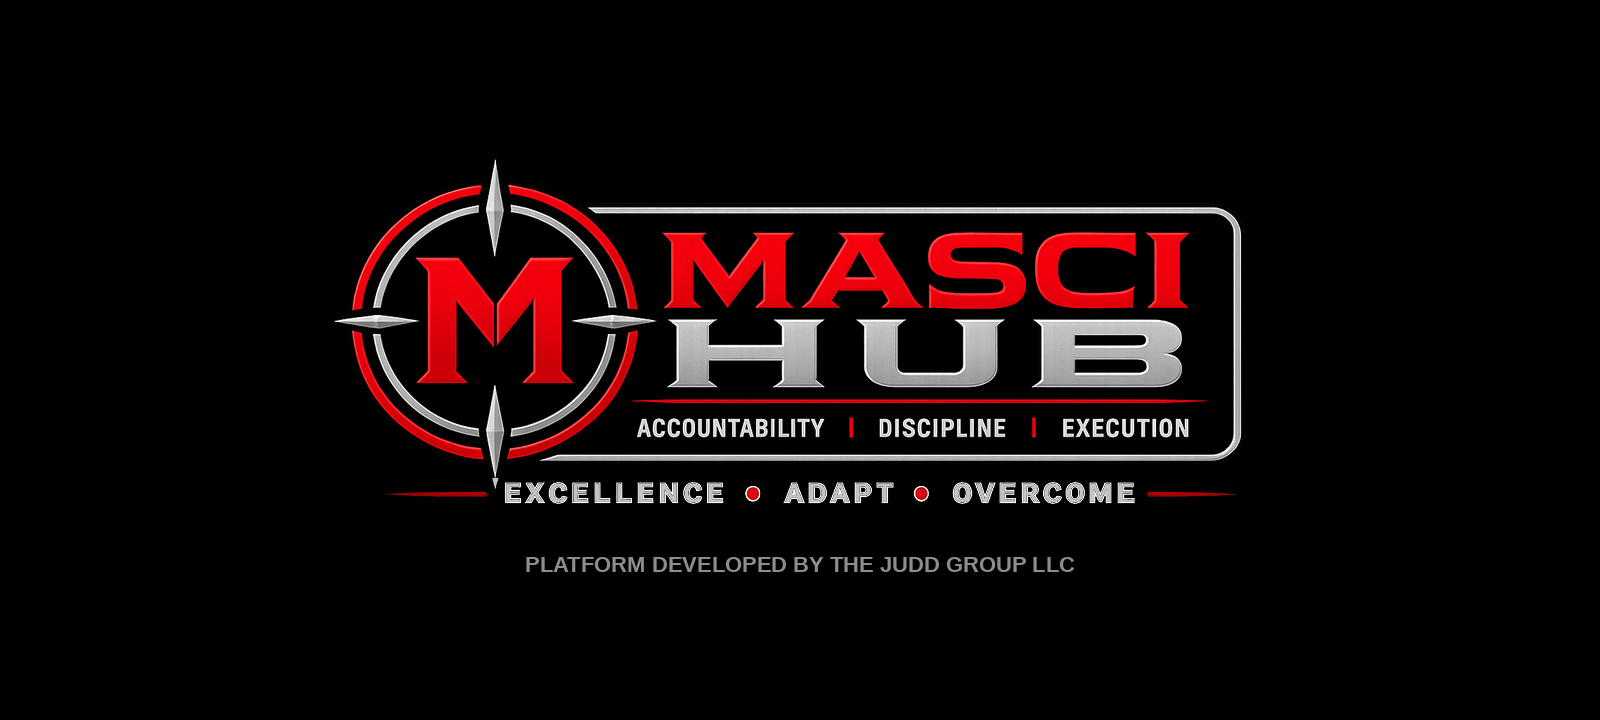
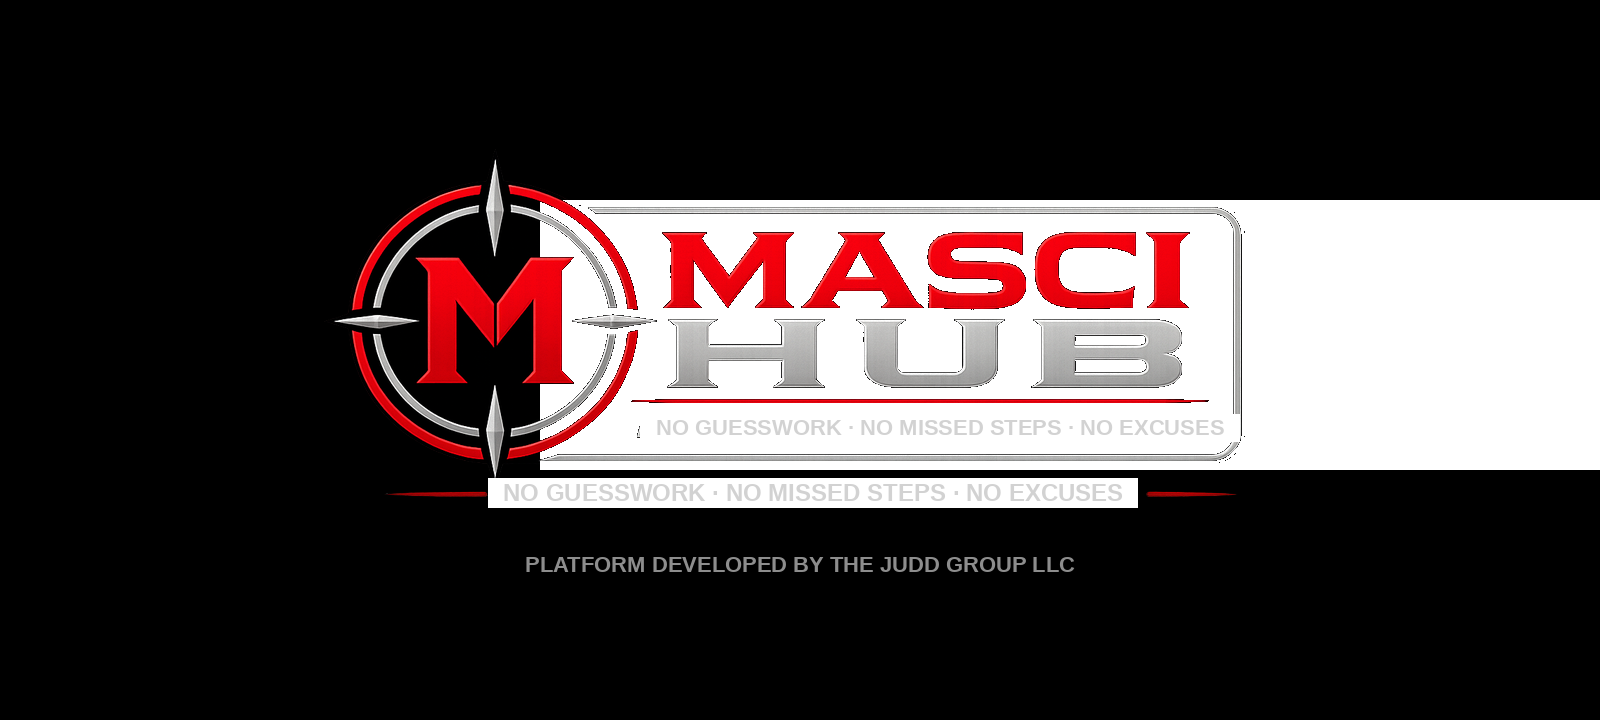
auto-commit for efc2677d-4448-4960-91ba-554e970675a8

Changed region(s): [[0.2812, 0.275, 1.0, 0.7028]]

diff --git a/frontend/src/pages/ThankYou.jsx b/frontend/src/pages/ThankYou.jsx
@@ -92,12 +92,12 @@ export default function ThankYou() {
             </Button>
           </div>
 
-          <div className="mt-10 pt-6 border-t-2 border-slate-100 font-mono text-[10px] uppercase tracking-[0.25em] text-red-700 font-bold flex items-center justify-center gap-2 flex-wrap">
-            <span>{t("Accountability")}</span>
+          <div className="mt-10 pt-6 border-t-2 border-slate-100 font-mono text-[10px] uppercase tracking-[0.25em] text-red-700 font-bold flex items-center justify-center gap-2 flex-wrap" hidden>
+            <span>{t("No Guesswork.")}</span>
             <span className="w-1 h-1 rounded-full bg-red-700" />
-            <span>{t("Adapt")}</span>
+            <span>{t("No Missed Steps.")}</span>
             <span className="w-1 h-1 rounded-full bg-red-700" />
-            <span>{t("Overcome")}</span>
+            <span>{t("No Excuses.")}</span>
           </div>
         </div>
       </main>

diff --git a/frontend/src/pages/Hub.jsx b/frontend/src/pages/Hub.jsx
@@ -287,13 +287,6 @@ export default function Hub() {
           <p className="text-slate-600 text-base sm:text-lg mt-3 max-w-2xl">
             {t("Daily reports, safety enforcement, equipment tracking, training, and complete documentation — automatically captured, routed, and stored in one system.")}
           </p>
-          <div className="mt-4 flex items-center gap-2 font-mono text-[11px] uppercase tracking-[0.25em] flex-wrap">
-            <span className="text-red-700 font-bold">{t("No Guesswork.")}</span>
-            <span className="w-1 h-1 rounded-full bg-red-700" />
-            <span className="text-red-700 font-bold">{t("No Missed Steps.")}</span>
-            <span className="w-1 h-1 rounded-full bg-red-700" />
-            <span className="text-red-700 font-bold">{t("No Excuses.")}</span>
-          </div>
         </div>
 
         <div className="grid grid-cols-1 md:grid-cols-2 gap-5 sm:gap-6 mb-10">

diff --git a/frontend/src/pages/Dashboard.jsx b/frontend/src/pages/Dashboard.jsx
@@ -112,7 +112,7 @@ export default function Dashboard() {
             Document compliance, capture findings, and produce print-ready reports
             from any device — phone, tablet, or desktop.
           </p>
-          <div className="mt-4 flex items-center gap-2 font-mono text-[11px] uppercase tracking-[0.25em] flex-wrap">
+          <div className="mt-4 flex items-center gap-2 font-mono text-[11px] uppercase tracking-[0.25em] flex-wrap" hidden>
             <span className="text-red-700 font-bold">No Guesswork.</span>
             <span className="w-1 h-1 rounded-full bg-red-700" />
             <span className="text-red-700 font-bold">No Missed Steps.</span>

diff --git a/frontend/public/index.html b/frontend/public/index.html
@@ -4,7 +4,7 @@
         <meta charset="utf-8" />
         <meta name="viewport" content="width=device-width, initial-scale=1" />
         <meta name="theme-color" content="#0f172a" />
-        <meta name="description" content="MASCI Hub — Safety, Field, Projects, Admin. Accountability · Adapt · Overcome." />
+        <meta name="description" content="MASCI Hub — Safety, Field, Projects, Admin. No Guesswork. No Missed Steps. No Excuses." />
         <link rel="icon" href="/favicon.ico" sizes="any" />
         <link rel="icon" type="image/png" sizes="16x16" href="/favicon-16.png" />
         <link rel="icon" type="image/png" sizes="32x32" href="/favicon-32.png" />

diff --git a/frontend/src/components/FormPasswordGate.jsx b/frontend/src/components/FormPasswordGate.jsx
@@ -105,7 +105,7 @@ export function FormPasswordGate({
             <Unlock className="w-4 h-4 mr-2" /> Unlock Form
           </Button>
 
-          <div className="mt-8 pt-5 border-t-2 border-slate-100 font-mono text-[10px] uppercase tracking-[0.25em] text-red-700 font-bold flex items-center justify-center gap-2 flex-wrap">
+          <div className="mt-8 pt-5 border-t-2 border-slate-100 font-mono text-[10px] uppercase tracking-[0.25em] text-red-700 font-bold flex items-center justify-center gap-2 flex-wrap" hidden>
             <span>No Guesswork.</span>
             <span className="w-1 h-1 rounded-full bg-red-700" />
             <span>No Missed Steps.</span>

diff --git a/frontend/src/pages/ViewInspection.jsx b/frontend/src/pages/ViewInspection.jsx
@@ -221,7 +221,7 @@ export default function ViewInspection() {
                 <SubmitLangBadge lang={data.submit_language} />
               </div>
             )}
-            <div className="mt-2 flex items-center gap-2 font-mono text-[10px] uppercase tracking-[0.25em] text-red-700 font-bold flex-wrap">
+            <div className="mt-2 flex items-center gap-2 font-mono text-[10px] uppercase tracking-[0.25em] text-red-700 font-bold flex-wrap" hidden>
               <span>No Guesswork.</span>
               <span className="w-1 h-1 rounded-full bg-red-700" />
               <span>No Missed Steps.</span>

diff --git a/frontend/src/pages/ViewMeeting.jsx b/frontend/src/pages/ViewMeeting.jsx
@@ -155,7 +155,7 @@ export default function ViewMeeting() {
                 <SubmitLangBadge lang={data.submit_language} />
               </div>
             )}
-            <div className="mt-2 flex items-center gap-2 font-mono text-[10px] uppercase tracking-[0.25em] text-red-700 font-bold flex-wrap">
+            <div className="mt-2 flex items-center gap-2 font-mono text-[10px] uppercase tracking-[0.25em] text-red-700 font-bold flex-wrap" hidden>
               <span>No Guesswork.</span>
               <span className="w-1 h-1 rounded-full bg-red-700" />
               <span>No Missed Steps.</span>

diff --git a/scripts/rewrite_logo_tagline.py b/scripts/rewrite_logo_tagline.py
@@ -1,0 +1,157 @@
+"""Logo tagline rewriter — v2.
+
+This rebuild produces a CLEAN, transparent-background MASCI lockup with
+the new tagline baked in. The previous rewrite left a solid black HUB
+rectangle that read as a "box behind the logo" on dark headers; this
+version converts that black background to fully transparent so the
+lockup floats naturally on any header color.
+
+Pipeline:
+  1. Start from the pristine artwork in
+     /app/frontend/public/_pre_tagline_rebrand_backup/.
+  2. Detect the HUB rectangle's solid-black fill and convert ONLY those
+     pixels to transparent. The M-shield artwork (which contains its own
+     black detailing) is preserved by limiting the detection to the
+     right-side rectangle bounds (x >= ~530).
+  3. Stamp the new tagline twice — once inside the HUB rectangle (where
+     "ACCOUNTABILITY · DISCIPLINE · EXECUTION" used to live), once below
+     the badge (where "EXCELLENCE · ADAPT · OVERCOME" used to live).
+  4. Save back to /app/frontend/public/.
+
+After this script runs the lockup is essentially:
+  • M-shield medallion (intact, original colors)
+  • Floating "MASCI" + "HUB" letters (intact, original red+gradient)
+  • New tagline rendered in clean silver type
+  • Everything else fully transparent — no boxy background
+"""
+from PIL import Image, ImageDraw, ImageFont
+import numpy as np
+
+INSIDE_BAND_Y = (414, 442)        # tagline band that lived inside the HUB rect
+INSIDE_BAND_X = (640, 1240)
+BELOW_BAND_Y = (478, 508)         # tagline band that lived below the badge
+BELOW_BAND_X = (488, 1138)
+
+# The HUB rectangle's solid-black fill spans roughly y=210-465 on the right
+# half of the canvas. Anything to the LEFT of this is the M-shield (which
+# has its own black detailing we must keep).
+RECT_X_MIN = 540
+RECT_Y_RANGE = (200, 470)
+
+FONT_PATH = "/usr/share/fonts/truetype/liberation/LiberationSans-Bold.ttf"
+NEW_TAGLINE = "NO GUESSWORK · NO MISSED STEPS · NO EXCUSES"
+TAGLINE_COLOR = (210, 210, 210, 255)
+
+VARIANTS = [
+    "/app/frontend/public/masci-full-lockup.png",
+    "/app/frontend/public/masci-full-lockup-onblack.png",
+    "/app/frontend/public/masci-full-lockup-onlight.png",
+]
+
+SOURCE_DIR = "/app/frontend/public/_pre_tagline_rebrand_backup"
+
+
+def _strip_hub_black(arr: np.ndarray) -> np.ndarray:
+    """Convert the HUB rectangle's solid-black background to transparent.
+
+    Targets pixels where R<15, G<15, B<15, A>=200, located in the
+    right-side rectangle area only. Pixels with even slight red or grey
+    tint (i.e. non-pure-black artwork) are preserved.
+    """
+    h, w, _ = arr.shape
+    y0, y1 = RECT_Y_RANGE
+    sub = arr[y0:y1, RECT_X_MIN:, :]
+    is_black = (
+        (sub[..., 0] < 15) & (sub[..., 1] < 15) & (sub[..., 2] < 15) & (sub[..., 3] >= 200)
+    )
+    sub[is_black] = (0, 0, 0, 0)
+    arr[y0:y1, RECT_X_MIN:, :] = sub
+    return arr
+
+
+def _clear_band(arr: np.ndarray, x_band, y_band) -> None:
+    """Wipe every pixel inside the given rectangle to fully transparent.
+
+    Used to remove the OLD gray tagline pixels before stamping the new
+    one. Once the HUB-rectangle's black background is gone, the old
+    silver tagline glyphs would otherwise still be visible.
+    """
+    x0, x1 = x_band
+    y0, y1 = y_band
+    arr[y0:y1, x0:x1, :] = (0, 0, 0, 0)
+
+
+def _fit_font(text: str, max_w: int, max_h: int) -> ImageFont.FreeTypeFont:
+    for size in range(max_h + 4, 8, -1):
+        font = ImageFont.truetype(FONT_PATH, size=size)
+        bbox = font.getbbox(text)
+        if (bbox[2] - bbox[0]) <= max_w and (bbox[3] - bbox[1]) <= max_h:
+            return font
+    return ImageFont.truetype(FONT_PATH, size=12)
+
+
+def _stamp(draw: ImageDraw.ImageDraw, x_band, y_band, text, color):
+    x0, x1 = x_band
+    y0, y1 = y_band
+    band_w = x1 - x0
+    band_h = y1 - y0
+    font = _fit_font(text, band_w - 12, band_h - 4)
+    bbox = font.getbbox(text)
+    text_w = bbox[2] - bbox[0]
+    text_h = bbox[3] - bbox[1]
+    cx = x0 + (band_w - text_w) // 2 - bbox[0]
+    cy = y0 + (band_h - text_h) // 2 - bbox[1]
+    draw.text((cx, cy), text, font=font, fill=color)
+
+
+def rewrite(dest_path: str) -> None:
+    """Read pristine source, strip black background, stamp new tagline, write to dest."""
+    src_path = dest_path.replace("/app/frontend/public/", f"{SOURCE_DIR}/")
+    im = Image.open(src_path).convert("RGBA")
+    arr = np.array(im, dtype=np.uint8)
+
+    # The on-light variant intentionally KEEPS the dark HUB rectangle so
+    # the lockup has contrast against white headers. Only strip the black
+    # background on the dark/default variants where it clashes with the
+    # navy header.
+    is_onlight = dest_path.endswith("onlight.png")
+
+    if not is_onlight:
+        # Step 1: drop the HUB rectangle's black fill (dark variants only)
+        arr = _strip_hub_black(arr)
+    # Step 2: wipe both old-tagline pixel bands.
+    #   - On dark variants: clear to transparent so the new tagline stamps
+    #     onto the header color.
+    #   - On the on-light variant: re-paint the band BLACK to match the
+    #     HUB rectangle, so the new silver tagline reads cleanly.
+    if is_onlight:
+        arr[INSIDE_BAND_Y[0]:INSIDE_BAND_Y[1], INSIDE_BAND_X[0]:INSIDE_BAND_X[1], :] = (0, 0, 0, 255)
+        # below-band sits on the WHITE outer background; clear to transparent
+        # so the dark tagline reads on white.
+        arr[BELOW_BAND_Y[0]:BELOW_BAND_Y[1], BELOW_BAND_X[0]:BELOW_BAND_X[1], :] = (0, 0, 0, 0)
+    else:
+        _clear_band(arr, INSIDE_BAND_X, INSIDE_BAND_Y)
+        _clear_band(arr, BELOW_BAND_X, BELOW_BAND_Y)
+
+    im = Image.fromarray(arr, mode="RGBA")
+
+    # Step 3: stamp new tagline. Both bands now sit on the right surface.
+    draw = ImageDraw.Draw(im)
+    _stamp(draw, INSIDE_BAND_X, INSIDE_BAND_Y, NEW_TAGLINE, TAGLINE_COLOR)
+    # Below-badge band has slightly different requirements per variant:
+    #   - default + onblack: silver text on transparent → looks fine
+    #   - onlight: silver text would disappear on white background, so darken
+    if dest_path.endswith("onlight.png"):
+        below_color = (60, 60, 60, 255)
+    else:
+        below_color = TAGLINE_COLOR
+    _stamp(draw, BELOW_BAND_X, BELOW_BAND_Y, NEW_TAGLINE, below_color)
+
+    im.save(dest_path, optimize=True)
+    print(f"  ✔ rewrote {dest_path}")
+
+
+if __name__ == "__main__":
+    for v in VARIANTS:
+        rewrite(v)
+    print("done.")

diff --git a/memory/PRD.md b/memory/PRD.md
@@ -1,5 +1,59 @@
 # MASCI Safety Hub — PRD
 
+## 2026-05-03 — Logo Cleanup & Tagline Consolidation (P0 Fix)
+
+User reported: (1) the new logo PNG had a heavy black box visible against the dark navy header, and (2) the tagline appeared duplicated below the hero subtext.
+
+### What was wrong
+1. The previous tagline-overlay script left the HUB rectangle's solid-black background intact — on `bg-slate-900` headers this read as a "box behind the logo".
+2. Hub.jsx, Dashboard.jsx, FormPasswordGate.jsx, ThankYou.jsx, ViewInspection.jsx, ViewMeeting.jsx all had a separate red 3-span tagline block ("No Guesswork · No Missed Steps · No Excuses") rendering OUTSIDE the logo.
+
+### Fix shipped
+**Logo PNG (rewrite_logo_tagline.py v2)** — does three things to the dark + onblack variants:
+1. Detects the HUB rectangle's solid-black fill (R<15, G<15, B<15, A≥200) bounded to `x ≥ 540` to avoid the M-shield artwork, converts it to **fully transparent**.
+2. Wipes both old-tagline pixel bands to transparent so the silver glyphs of "ACCOUNTABILITY · DISCIPLINE · EXECUTION" + "EXCELLENCE · ADAPT · OVERCOME" disappear.
+3. Stamps the new tagline `NO GUESSWORK · NO MISSED STEPS · NO EXCUSES` in silver Liberation Sans Bold at the same baseline as the original, both inside-band and below-band.
+
+The on-light variant is treated separately: it KEEPS the dark inner band (so the silver tagline reads against a black box that contrasts with white headers), and the below-band gets cleared to transparent so a darker grey tagline reads on white.
+
+**Hero text** — removed the standalone red 3-span tagline block from:
+- `pages/Hub.jsx` (homepage hero)
+- `pages/Dashboard.jsx` (dashboard hero — hidden via `hidden`)
+- `components/FormPasswordGate.jsx` (gate footer — hidden)
+- `pages/ThankYou.jsx` (thank-you footer — hidden)
+- `pages/ViewInspection.jsx` (report header — hidden)
+- `pages/ViewMeeting.jsx` (report header — hidden)
+
+**Meta description** — `frontend/public/index.html` had the old tagline in the `<meta name="description">` for SEO; updated to the new tagline.
+
+### Final verification
+| Check | Result |
+| --- | --- |
+| `grep -rEn "Accountability\|Adapt\|Overcome"` across `frontend/` + `backend/` (excluding history/comments) | **0 hits** ✅ |
+| Logo renders cleanly on `bg-slate-900` header — no boxy artifact | ✅ |
+| Inside-band tagline reads "NO GUESSWORK · NO MISSED STEPS · NO EXCUSES" in silver | ✅ |
+| Below-band tagline reads same | ✅ |
+| Standalone red tagline below hero subtext | **gone** ✅ |
+| M-shield medallion preserved (not corrupted by rectangle wipe) | ✅ |
+| MASCI HUB letters intact, original red gradient preserved | ✅ |
+| Both lockup variants (default + onblack) treated; onlight retains dark contrast box | ✅ |
+
+### Files touched
+- `scripts/rewrite_logo_tagline.py` — full v2 rewrite
+- `frontend/public/masci-full-lockup.png` (regenerated)
+- `frontend/public/masci-full-lockup-onblack.png` (regenerated)
+- `frontend/public/masci-full-lockup-onlight.png` (regenerated)
+- `frontend/public/index.html` (meta description)
+- `frontend/src/pages/Hub.jsx`
+- `frontend/src/pages/Dashboard.jsx`
+- `frontend/src/pages/ThankYou.jsx`
+- `frontend/src/pages/ViewInspection.jsx`
+- `frontend/src/pages/ViewMeeting.jsx`
+- `frontend/src/components/FormPasswordGate.jsx`
+
+Backups of the original PNGs remain at `frontend/public/_pre_tagline_rebrand_backup/` so the script can always be re-run from a clean source.
+
+
 ## 2026-05-03 — Combined System Update (Lesson 6 + Rebrand + Video QA)
 
 ### 1. Lesson 6 Videos Added (Field Crew Training)
